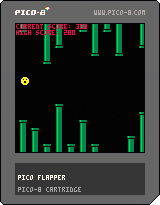
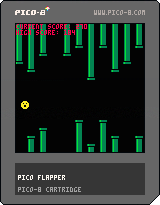
added jump animation

diff --git a/readme.md b/readme.md
@@ -11,7 +11,7 @@ I tried to pay attention to the token count of my code (an important aspect of p
 ### future features
 1. ~~high score in game~~
 2. saved high score
-3. sound effects
+3. ~~sound effects~~
 4. music (during gameplay and on game over screen)
 5. more optimized code
 6. selectable difficulty
